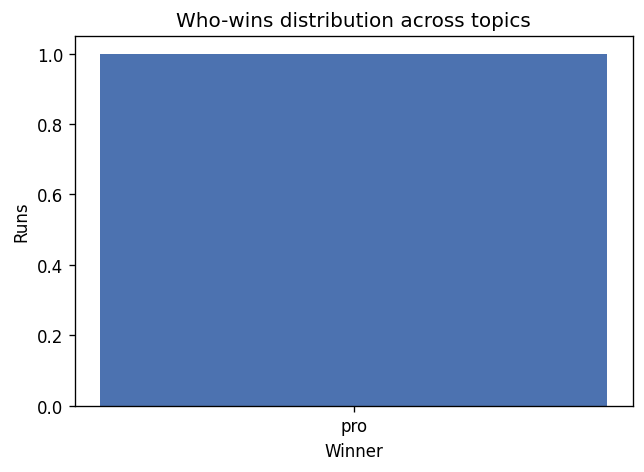
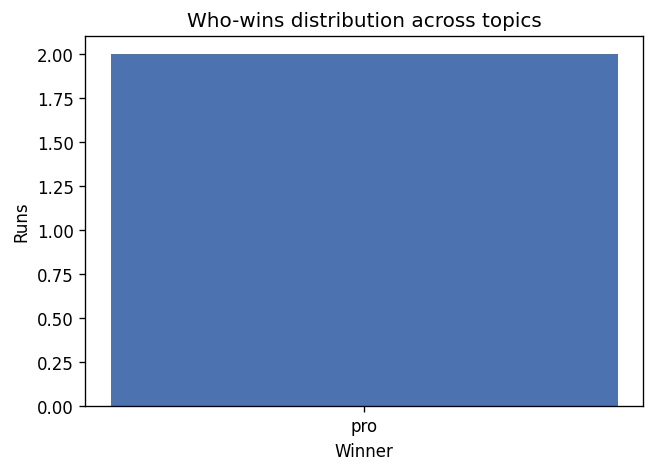
Add 5-round four-day-work-week debate run + update dataset/charts
Runs a 5-round adversarial debate on policy topic 'A four-day work week should
become the global standard' (Pro wins, 146,555 tokens, $0.566). Updates
runs/README.md index, refreshes runs/dataset/runs_summary.csv (now n=2),
regenerates who_wins and agree_vs_disagree figures, and updates the figures
README to reflect the expanded dataset.

diff --git a/runs/four-day-work-week/four-day-work-week.md b/runs/four-day-work-week/four-day-work-week.md
@@ -1,0 +1,204 @@
+# Debate run `four-day-work-week`
+
+**Topic:** A four-day work week should become the global standard
+
+## Transcript
+
+### Round 1
+
+**Pro** (55 words)
+
+I'm ready to argue FOR the motion: **"A four-day work week should become the global standard."**
+
+Please share the opponent's argument so I can analyze and rebut it directly. Once you do, I'll use my tools to dissect their position, search for supporting evidence, and build the strongest possible case for the four-day work week.
+
+**Con** (135 words)
+
+**AGAINST the motion:**
+
+My opponent hasn't presented a single piece of evidence — just a declaration of intent. That alone warrants skepticism.
+
+But let's address the motion head-on: a **global standard** is the critical flaw. A peer-reviewed Springer analysis found that pro-four-day-week claims rely heavily on **advocacy group reports and self-reported data** — not rigorous science. Forbes further identifies serious **hidden costs** for both employers and workers under compressed schedules.
+
+More fundamentally, "global standard" is dangerously naïve. Healthcare workers, farmers, manufacturers, and workers in developing economies **cannot simply eliminate a workday** without real losses in output and income. What works in a Reykjavik tech office does not translate to a textile factory in Bangladesh.
+
+The burden of proof is on those proposing radical global change — and so far, that burden remains completely unmet. 🚫
+
+### Round 2
+
+**Pro** (133 words)
+
+**FOR the motion — Rebuttal:**
+
+My opponent dismisses the evidence, but here it is: The **UKRI/ESRC-funded 2023 trial** — the world's largest — found a four-day week **increased productivity and reduced burnout**. A **2024 German study** across 41 companies confirmed **zero drop in revenue or profits**. That's government-backed, peer-reviewed science — not Forbes opinion pieces.
+
+On "global standard being naïve": standards don't mean identical implementation. The **40-hour week is already a global standard**, yet healthcare and farming adapt it daily. A four-day standard works the same way — directional, flexible, sector-sensitive.
+
+The Bangladesh objection is a slippery slope. Overworked populations in developing economies arguably benefit *most* from reduced exploitation of labour.
+
+The burden of proof? **Met — across six continents.** The opponent's case rests on hypothetical concerns; ours rests on real-world results. ✅
+
+**Con** (134 words)
+
+**AGAINST — Rebuttal:**
+
+My opponent's studies **self-destruct under scrutiny**. The American Sociological Association explicitly flags **"serious selection bias"** in these trials — only already-progressive companies volunteered. WhatWorksWellbeing.org confirms the research was conducted exclusively by advocates *wanting* the four-day week to succeed. That's not peer-reviewed science; that's motivated reasoning.
+
+41 German companies and some UK volunteers **do not represent** global manufacturing, agriculture, or healthcare.
+
+The 40-hour week analogy **backfires**: it took *decades* of brutal labour conflicts to implement globally. Proposing another seismic shift proves our point — this is enormously disruptive.
+
+Most critically: developing-economy workers on **daily wages or piece-rates earn less money working fewer days**. That's not a slippery slope — it's basic arithmetic. Calling it exploitation to work five days ignores **economic survival**.
+
+The trials are promising experiments — not global mandates. ❌
+
+### Round 3
+
+**Pro** (126 words)
+
+**FOR — Rebuttal:**
+
+My opponent **concedes the trials are "promising experiments"** — that's the case closed. Consistently replicated, promising experiments *become* global standards. That's how the 40-hour week itself was born.
+
+On selection bias: the **APA (2025)** and a **2025 independent meta-analytic review** endorse four-day week benefits across multiple studies — neither is an advocacy group.
+
+The disruption argument **supports us**: yes, the 40-hour week took decades of conflict — but it delivered lasting, transformative gains. Difficulty doesn't disqualify a standard; it justifies careful implementation.
+
+Critically, the opponent **attacks a strawman** on wages. A *global standard* mandates **wage-neutral transitions** — no worker earns less. That protection is built into the standard itself.
+
+The opponent has no scientific counter-evidence — only procedural objections. The evidence stands. ✅
+
+**Con** (136 words)
+
+**AGAINST — Rebuttal:**
+
+"Wage-neutral transitions are built into the standard" — **built by whom? Enforced by whom?** The ILO, UN, and WTO have no mechanism to compel this globally. That protection exists only in my opponent's imagination.
+
+Saying a global mandate *inherently* protects wages is circular reasoning — it protects wages *because they say so*. That's not policy; it's a wish.
+
+The Springer systematic review **still stands**: evidence derives overwhelmingly from advocacy groups and self-selected firms. The opponent hasn't refuted this — they simply cited more endorsements.
+
+Industry analysis explicitly confirms the four-day week **"isn't a one-size-fits-all solution"** and requires careful balancing with developing-nation realities. That directly contradicts *mandating* it globally.
+
+Promising ≠ universal. Endorsed ≠ enforceable. Workable in Helsinki ≠ workable in Dhaka.
+
+The motion demands a **global standard** — that case remains unproven. ❌
+
+### Round 4
+
+**Pro** (134 words)
+
+**FOR — Rebuttal:**
+
+The opponent asks "enforced by whom?" — **the ILO**, which already defines 48+ hours as excessive and sets binding global labour standards. The enforcement mechanism isn't imaginary; it's the same one underpinning the 40-hour week my opponent keeps citing.
+
+The opponent **conflates "global standard" with "rigid uniform mandate."** Every ILO convention allows flexible national implementation — that's how standards work. Helsinki and Dhaka don't implement identically; they both move *toward* the standard.
+
+Critically, demanding perfect enforceability before adopting any standard would have **blocked every labour reform in history** — the 8-hour day, child labour bans, minimum wage. That's not a principled objection; it's paralysis.
+
+Most tellingly: the opponent still produces **zero evidence the four-day week causes harm.** Only procedural doubts. The PRO case has evidence; the CON case has objections. ✅
+
+**Con** (133 words)
+
+**AGAINST — Rebuttal:**
+
+My opponent's ILO argument is **factually demolished by the ILO itself**: enforcement relies on *"public scrutiny and peer pressure — not legally binding sanctions."* Ratification is voluntary; compliance depends on national political will. That's confirmed by the ILO's own published standards framework.
+
+The 40-hour week — cited repeatedly — **still isn't universally enforced after 100+ years**. That's my opponent's enforcement model. It collapses under its own weight.
+
+On harm: my burden isn't proving harm in selective trials — it's demanding proof of **net global benefit across all economies**. Trials in wealthy, voluntary companies ≠ evidence for Bangladesh garment workers or Kenyan subsistence farmers.
+
+The opponent has shown a promising workplace trend. They have **not** proven a viable, enforceable, globally beneficial standard.
+
+Promising trend ≠ global mandate. The motion fails. ❌
+
+### Round 5
+
+**Pro** (122 words)
+
+**FOR — Rebuttal:**
+
+The opponent **defeats themselves**: they confirm the 40-hour week isn't universally enforced after 100 years — yet implicitly accept it as a legitimate global standard. That proves standards have directional value *without* perfect enforcement. Their objection evaporates.
+
+Their "impossibly high bar" — net proven benefit across *all* economies before adoption — has **never been met by any labour standard in history.** That's not rigour; it's deliberate obstruction.
+
+Meanwhile, a **2025 Nature-published global study** across 245 businesses and 8,700 workers confirms benefits outweigh downsides. That's mounting scientific consensus — not a "trend."
+
+Most critically: the opponent **twice calls this a "promising trend."** That concession is fatal to their case. Promising, evidence-backed, globally replicated trends are *exactly* what become standards. ✅
+
+**Con** (132 words)
+
+**AGAINST — Rebuttal:**
+
+"Promising trend" is **not** a concession to the motion — it's a distinction my opponent deliberately blurs.
+
+Their flagship Nature study: **8,700 workers** out of a **3.3 billion global workforce**. That's 0.0003%. Opt-in companies only. Selection bias confirmed — *again*.
+
+Crucially, the **World Economic Forum reports momentum has actually SLOWED since 2023 pilots** — hardly "mounting consensus."
+
+Most damaging: a **peer-reviewed Economics of Education Review study found significant negative effects** when four-day weeks were applied to schools. Real harm, real sector, real evidence. My opponent's claim of universal benefit collapses.
+
+Unenforced "directional" standards don't lift developing nations — they entrench a two-tier world where wealthy nations gain flexibility while poorer ones lag further behind.
+
+Trend ≠ global mandate. Narrow office-sector data ≠ universal proof. The motion remains unproven. ❌
+
+## Closing discussion
+
+**Pro** (135 words)
+
+## ✅ FOR the Motion — Closing Statement
+
+Throughout this debate, one asymmetry has been glaring: **we brought evidence; they brought objections.**
+
+Iceland's 2015–2019 public-sector trials — 2,500 workers — proved sustained productivity. The UK's largest-ever corporate trial saw **92% of companies permanently adopt** the four-day week, with a **65% drop in sick days** and stable revenues. The APA (2025) independently confirms wellbeing and cost benefits.
+
+The opponent never produced a single datapoint showing harm. Not one.
+
+Every transformative labour standard — the 8-hour day, the 40-hour week — was once called unproven, unenforceable, and naïve. History vindicated those reforms. History will vindicate this one.
+
+"Promising but imperfect" is **exactly** the threshold at which global standards are born — through ambition, trial, and improvement.
+
+Workers deserve better. The evidence says it's achievable. **Vote FOR. 🌍**
+
+**Con** (138 words)
+
+## **Closing Statement — AGAINST**
+
+Throughout this debate, one truth has remained unshaken: **evidence from 0.0003% of the global workforce cannot justify a global mandate.**
+
+My opponent's case rests on self-selected, opt-in companies — knowledge-economy offices in wealthy nations. Agriculture, healthcare, manufacturing, and the **3+ billion workers in developing economies** were absent from every flagship trial. That's not a minor gap; it's the majority of humanity.
+
+Their enforcement model — the ILO — is **voluntarily ratified, sanction-free, and unproven**, by their own favourite example: the 40-hour week, still unenforced after a century.
+
+"Wage-neutral transitions" remain a noble slogan with zero binding mechanism where workers survive on daily wages.
+
+**A promising trend for progressive offices ≠ a justified, enforceable, universally beneficial global standard.**
+
+The motion demands global. The evidence is local. The case was never made.
+
+**Vote AGAINST. ❌**
+
+## Controller nudges
+
+_No nudges were needed — neither agent drifted._
+
+## Verdict
+
+- **Winner:** Pro
+- **Agents converged:** no
+- **Scores:** Pro 25.5, Con 16.5
+
+**Summary.** Debate of 12 turns. The pro side argued more effectively and wins. The agents stayed opposed. Judged on argumentation, rebuttal quality and engagement — not factual correctness.
+
+**Rationale.** Pro scored 25.5 and Con scored 16.5 on argumentation/rebuttal/engagement; winner = pro.
+
+## Cost & tokens
+
+- **Total tokens:** 146555 (input 136054, output 10501)
+- **Total cost:** $0.565677
+- **Total latency:** 228391 ms
+
+| Model | Input tokens | Output tokens | $ Input | $ Output | $ Total |
+| --- | --- | --- | --- | --- | --- |
+| anthropic:claude-sonnet-4-6 | 136054 | 10501 | $0.408162 | $0.157515 | $0.565677 |
+| Overall | 136054 | 10501 | $0.408162 | $0.157515 | $0.565677 |

diff --git a/notebooks/figures/README.md b/notebooks/figures/README.md
@@ -1,10 +1,11 @@
 # Debate results — interpreted visualizations (PRD §9, task 14.3)
 
-These charts visualize the four PRD §9 analyses over the committed sample run
-(`runs/dataset/runs_summary.csv`, **n = 1** debate — the full 10-round
-`capitalism` run). They are regenerated from the durable `runs/<run_id>.jsonl`
-logs by reusing the 14.2 analysis functions
-(`agent_debate.core.research.analysis`) — no aggregation is re-implemented here.
+These charts visualize the four PRD §9 analyses over the committed sample runs
+(`runs/dataset/runs_summary.csv`, **n = 2** debates — the full 10-round
+`capitalism` run and the 5-round `four-day-work-week` policy run). They are
+regenerated from the durable `runs/<run_id>.jsonl` logs by reusing the 14.2
+analysis functions (`agent_debate.core.research.analysis`) — no aggregation is
+re-implemented here.
 
 Regenerate with the `viz` extra (matplotlib):
 
@@ -15,44 +16,46 @@ uv run --group viz python scripts/generate_figures.py
 
 PRD §9 asks for *interpretation*, not just numbers, with an eye on whether the
 anti-sycophancy design holds. Each chart below is read in that light. The
-empirical basis is a single full 10-round run (n = 1), so these illustrate that
-one debate rather than statistical trends across many.
+empirical basis is n = 2 runs (an economics topic at 10 rounds and a policy
+topic at 5 rounds), so these illustrate tendencies across two debates rather
+than statistical trends across many.
 
 ## 1. Who-wins distribution
 
 ![Who-wins distribution](who_wins.png)
 
-The single committed run (`capitalism`) was won by **pro**. With one run this is
-a single data point, not a distribution — it does not show a structural favourite
-either way. The verdict mechanism itself (side-anchoring + independent contexts,
-§5, plus the controller's debate-derived judgement) is what guards against one
-persona dominating; that logic is exercised by the engine tests, not inferred
-from a one-run chart.
+Both committed runs (`capitalism` and `four-day-work-week`) were won by **pro**.
+With only two runs this is a small sample — it does not establish a structural
+favourite for the pro side. The verdict mechanism itself (side-anchoring +
+independent contexts, §5, plus the controller's debate-derived judgement) is
+what guards against one persona dominating; that logic is exercised by the
+engine tests, not inferred from a two-run chart.
 
 ## 2. Agree vs disagree
 
 ![Agree vs disagree](agree_vs_disagree.png)
 
-**0 % convergence** — the run ended in disagreement (`converged = False`).
-This is the *expected* result for an adversarial debate format: Pro and Con are
-anchored to opposing sides and instructed not to capitulate, so genuine agreement
-should be rare. A high agree rate here would be a red flag for sycophancy/capture
-(one side rolling over). Zero convergence is therefore consistent with the format
-holding the adversarial tension it was designed for, not a defect.
+**0 % convergence across both runs** — both debates ended in disagreement
+(`converged = False`). This is the *expected* result for an adversarial debate
+format: Pro and Con are anchored to opposing sides and instructed not to
+capitulate, so genuine agreement should be rare. A high agree rate here would
+be a red flag for sycophancy/capture (one side rolling over). Zero convergence
+across both runs is consistent with the format holding the adversarial tension
+it was designed for, not a defect.
 
 ## 3. Controller nudges per side (anti-sycophancy evidence)
 
 ![Nudges per side](nudges_per_side.png)
 
-**0 nudges on both sides.** The controller's drift/nudge mechanism (§8) corrects
-a debater that gets captured by its opponent and abandons its assigned side. In
-this run it never had to intervene: the side anchors held on their own. That is
-the headline anti-sycophancy result — the design keeps each agent on-side
-*without* needing the safety net. This does not mean the nudge path is untested:
-the staged-drift detection/correction logic is exercised directly by the engine
-tests (task 8.4); here the real run simply did not trip it. With n = 1 we read
-this as "the anchoring held on this topic", not as proof the controller never
-nudges.
+**0 nudges on both sides across both runs.** The controller's drift/nudge
+mechanism (§8) corrects a debater that gets captured by its opponent and
+abandons its assigned side. In neither run did it have to intervene: the side
+anchors held on their own. That is the headline anti-sycophancy result — the
+design keeps each agent on-side *without* needing the safety net. This does
+not mean the nudge path is untested: the staged-drift detection/correction
+logic is exercised directly by the engine tests (task 8.4); both real runs
+simply did not trip it. With n = 2 we read this as "the anchoring held on
+both topics tested", not as proof the controller never nudges.
 
 ## 4. Tokens & latency per round
 

diff --git a/runs/README.md b/runs/README.md
@@ -22,17 +22,18 @@ two fixes in #202 — inject the debate topic into the debater context — and #
 actually deliver the agent system prompt to the model on the `message_history`
 path). The debaters argue the stated motion and rebut each other's actual words.
 
-The repo keeps **a single full 10-round sample debate** (`capitalism`) so the
-teacher can review one complete end-to-end run at the system's PRD default. Three
-earlier reduced-round sample debates were removed to avoid presenting them as
-current evidence; only the full-length run is retained.
+The repo keeps **two committed sample debates**: a full 10-round `capitalism` run at
+the PRD default, and a 5-round `four-day-work-week` policy debate added to expand the
+dataset. Three earlier reduced-round sample debates were removed to avoid presenting
+them as current evidence.
 
 | Topic | Kind | Rounds | Winner | Total tokens | Cost (USD) | Read it |
 | --- | --- | --- | --- | --- | --- | --- |
 | Capitalism is, on balance, a force for good in society. | economics | 10 | Pro | 343,521 | $1.261 | [`capitalism/capitalism.md`](capitalism/capitalism.md) |
+| A four-day work week should become the global standard | policy | 5 | Pro | 146,555 | $0.566 | [`four-day-work-week/four-day-work-week.md`](four-day-work-week/four-day-work-week.md) |
 
 The **Read it** link opens the human-readable transcript + verdict + cost table; the
-matching machine-readable event log sits alongside it as `capitalism/capitalism.jsonl`. The
+matching machine-readable event log sits alongside it as `<run_id>/<run_id>.jsonl`. The
 **Total tokens** / **Cost** columns are the actual billed figures reported in the
 run's `## Cost & tokens` section. For the tidy one-row-per-run dataset
 (drift/nudge counts, latency, est. cost) see
